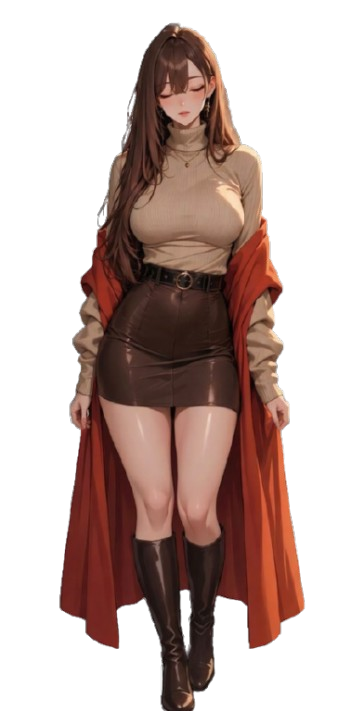
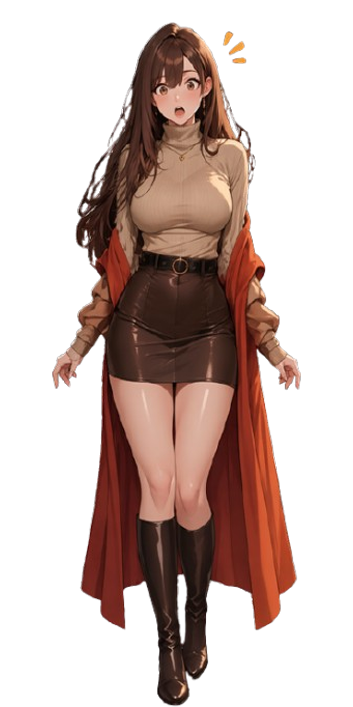
Sync ani assets and prune interaction frames

Changed region(s): [[0.1425, 0.0311, 0.8832, 1.0], [0.6553, 0.0622, 0.7123, 0.0934], [0.6268, 0.0311, 0.6553, 0.0622]]

diff --git a/src/data/parts.ts b/src/data/parts.ts
@@ -52,11 +52,8 @@ export const INTERACTION_ORDER = [
   "ani_idle1",
   "ani_idle2",
   "ani_surprise1",
-  "ani_surprise2",
-  "ani_heart0",
   "ani_heart1",
   "ani_heart2",
-  "ani_heart3",
 ] as const;
 export type InteractionKey = (typeof INTERACTION_ORDER)[number];
 
@@ -65,11 +62,8 @@ export const INTERACTION_ASSET_PATHS: Record<InteractionKey, string> = {
   ani_idle1: "/assets/ani/idle1.png",
   ani_idle2: "/assets/ani/idle2.png",
   ani_surprise1: "/assets/ani/Surprise1.png",
-  ani_surprise2: "/assets/ani/Surprise2.png",
-  ani_heart0: "/assets/ani/Heart0.png",
   ani_heart1: "/assets/ani/Heart1.png",
   ani_heart2: "/assets/ani/Heart2.png",
-  ani_heart3: "/assets/ani/Heart3.png",
 };
 
 // Tier = how many "stage-advancing" parts have been removed at the time

diff --git a/src/systems/InteractionSystem.ts b/src/systems/InteractionSystem.ts
@@ -91,11 +91,7 @@ export class InteractionSystem {
   }
 
   private playSurprise() {
-    const seq: InteractionKey[] = [
-      "ani_surprise1",
-      "ani_surprise2",
-      "ani_surprise2",
-    ];
+    const seq: InteractionKey[] = ["ani_surprise1"];
     seq.forEach((key, idx) => {
       this.sequenceTimers.push(
         this.scene.time.delayedCall(idx * 115, () => {
@@ -117,7 +113,7 @@ export class InteractionSystem {
     const seq: InteractionKey[] = [
       "ani_heart1",
       "ani_heart2",
-      "ani_heart3",
+      "ani_heart1",
       "ani_heart2",
     ];
 
